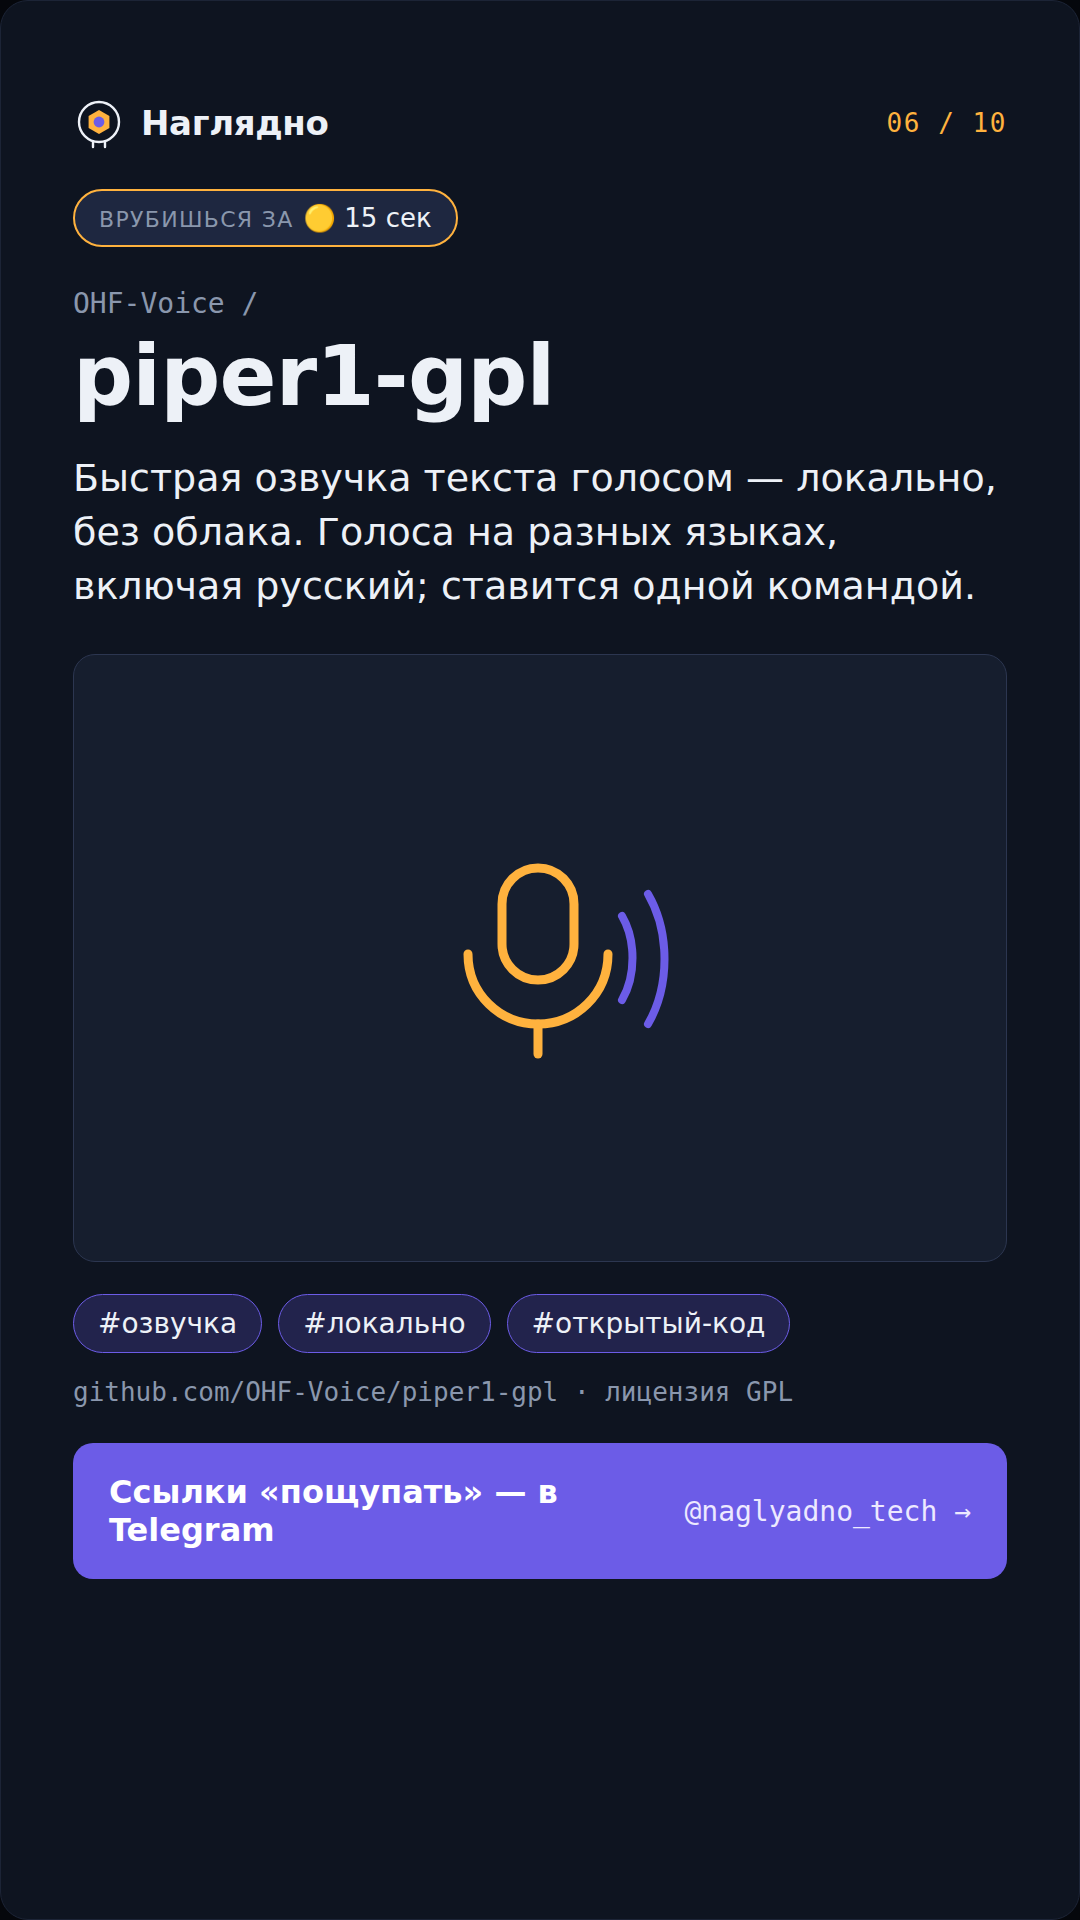
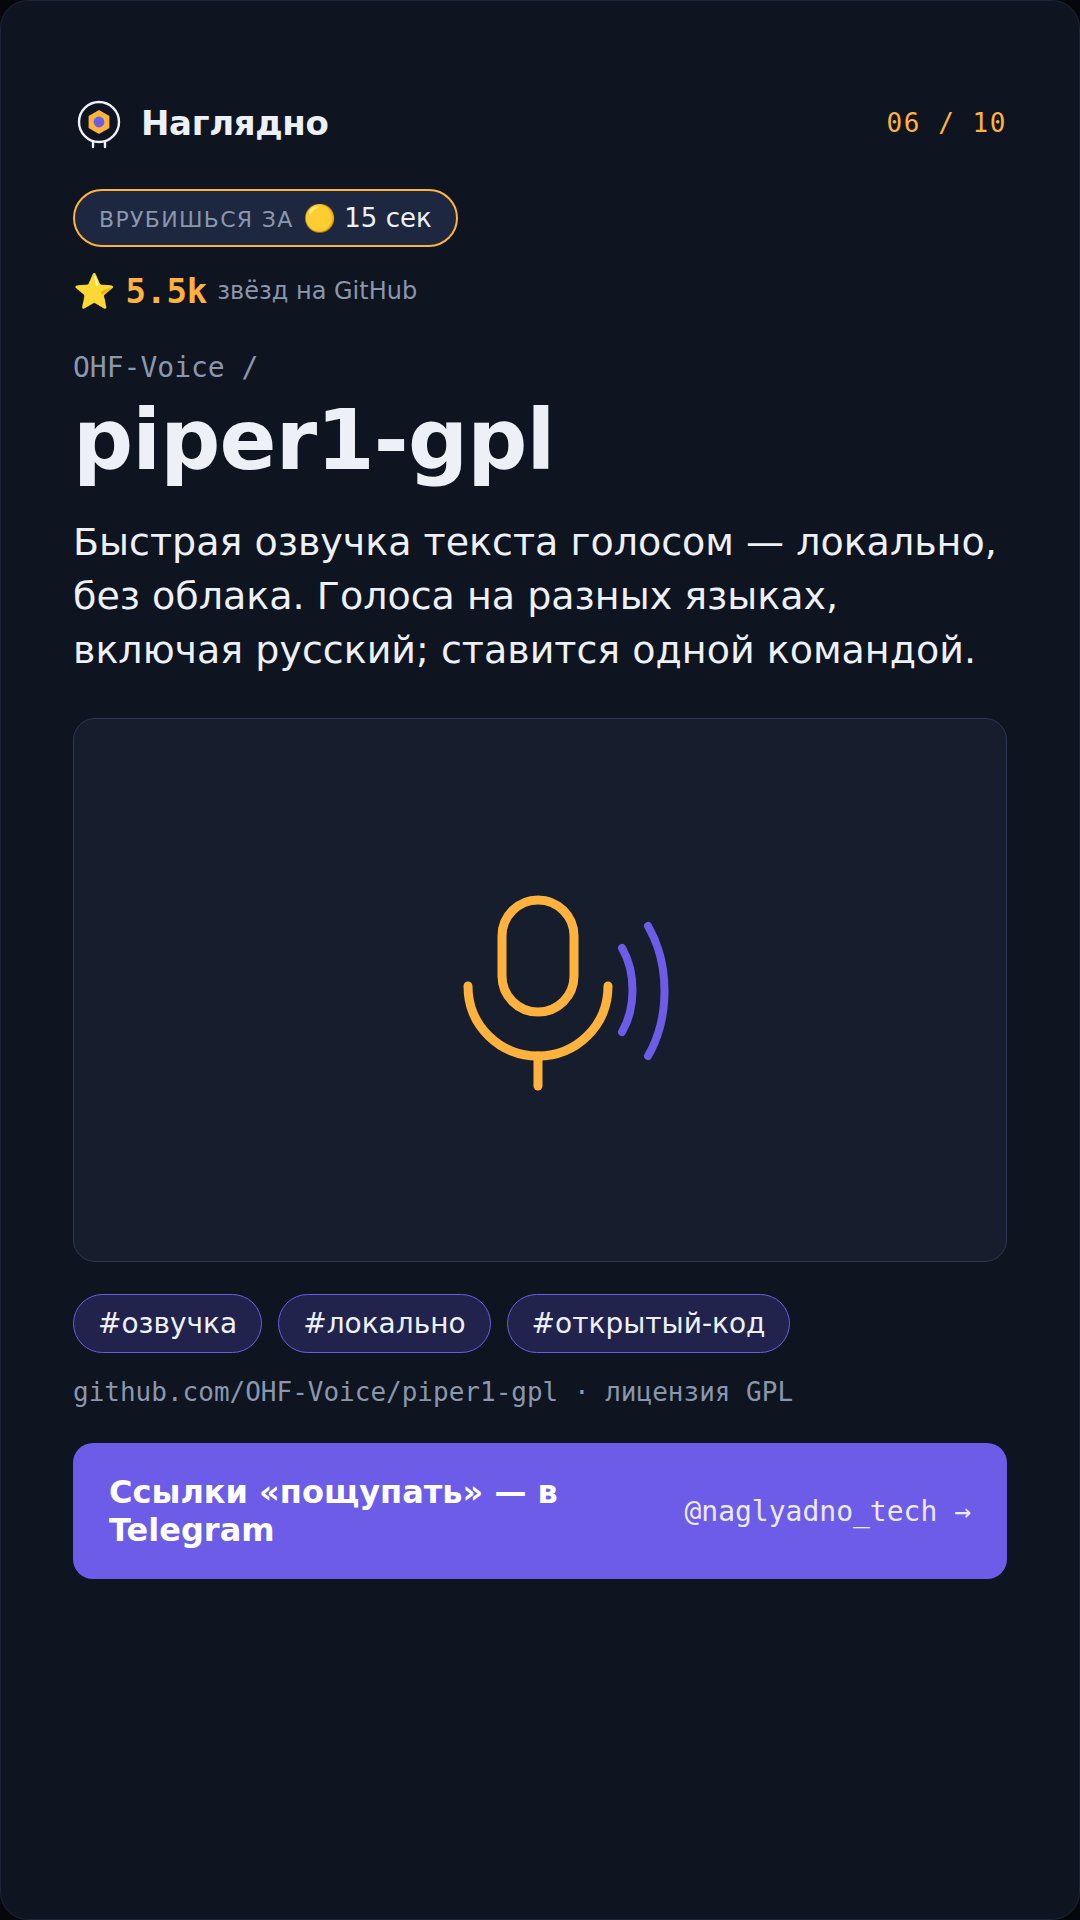
Вернуть счётчик звёзд — реальные цифры, без привязки к неделе
Проверил, что star-badge shields.io доступен из этой среды и сам
обращается к GitHub API на своей стороне — раньше это выглядело
невозможным только из-за блокировки api.github.com конкретно этим
прокси, не из-за отсутствия интернета вообще.

Возвращён блок ⭐ с суммарным числом звёзд на каждой карточке обоих
выпусков — подтверждено shields.io на момент рендера. Недельный
прирост не возвращён: такой метрики у нас по-прежнему нет, и её
источник остаётся неподтверждаемым.

Заодно убрана привязка к «неделе» из заголовков и подписей, где
она была декоративной и ничем не подкреплялась: обложка «Взлетели
на GitHub» и title-теги обоих файлов, brand/profile-setup.md,
brand/brand-guide.md — «Сборка недели» → «Сборка».

Claude-Session: https://claude.ai/code/session_01DzVTpoES8dbpXif4hazhAx

Changed region(s): [[0.0611, 0.125, 0.9167, 0.3438], [0.4278, 0.4375, 0.6417, 0.5625]]

diff --git a/cards/trending-repos.html b/cards/trending-repos.html
@@ -3,7 +3,7 @@
 <head>
 <meta charset="utf-8">
 <meta name="viewport" content="width=device-width, initial-scale=1">
-<title>Наглядно — репозитории недели</title>
+<title>Наглядно — репозитории на подъёме</title>
 <link rel="preconnect" href="https://fonts.googleapis.com">
 <link rel="preconnect" href="https://fonts.gstatic.com" crossorigin>
 <link href="https://fonts.googleapis.com/css2?family=Unbounded:wght@600;700&family=Onest:wght@400;500;600;700&family=JetBrains+Mono:wght@400;500;700&display=swap" rel="stylesheet">
@@ -37,6 +37,11 @@ body{background:#05070c;font-family:var(--font-text);padding:40px;
 .chip{margin-top:40px;align-self:flex-start;background:var(--surface-2);
   border:2px solid var(--accent);border-radius:999px;padding:12px 24px;font-size:26px}
 .chip small{color:var(--text-muted);text-transform:uppercase;letter-spacing:.06em;margin-right:10px;font-size:22px}
+
+.stars{margin-top:24px;display:inline-flex;align-items:center;gap:10px;
+  font-family:var(--font-mono);font-size:34px;font-weight:700;color:var(--accent)}
+.stars .n{color:var(--accent)}
+.stars small{font-family:var(--font-text);font-weight:400;font-size:24px;color:var(--text-muted)}
 
 
 .owner{margin-top:40px;font-family:var(--font-mono);font-size:28px;color:var(--text-muted)}
@@ -114,6 +119,7 @@ const MASCOT = `<svg class="eye" viewBox="0 0 52 52" fill="none">
 const CARDS = [
   {
     owner: 'bilawalsidhu', repo: 'gods-eye-view',
+    stars: '21k',
     clarity: ['🟢', '3 сек'],
     desc: 'Симулятор шпионского спутника в браузере — но данные настоящие. Живые самолёты, корабли, землетрясения и городские камеры на 3D-глобусе.',
     shot: 'shots/gods-eye-view.png',
@@ -122,6 +128,7 @@ const CARDS = [
   },
   {
     owner: 'webadderallorg', repo: 'Recordly',
+    stars: '26k',
     clarity: ['🟢', '3 сек'],
     desc: 'Бесплатная запись экрана с автоматическим приближением, плавным курсором и врезкой с камеры. Ставится на Windows, macOS и Linux; авторы честно предупреждают, что проект молодой.',
     shot: 'shots/recordly.png',
@@ -130,6 +137,7 @@ const CARDS = [
   },
   {
     owner: 'heygen-com', repo: 'hyperframes',
+    stars: '48k',
     clarity: ['🟡', '15 сек'],
     desc: 'Пишешь обычную веб-страницу — на выходе готовый видеофайл. Монтажная программа не нужна: анимацию собирает <i>агент (ИИ, который сам выполняет действия)</i>.',
     icon: 'video',
@@ -138,6 +146,7 @@ const CARDS = [
   },
   {
     owner: 'tt-a1i', repo: 'archify',
+    stars: '56k',
     clarity: ['🟡', '15 сек'],
     desc: 'Описываешь систему словами — получаешь готовую схему: архитектура, потоки данных, порядок шагов. Работает как навык внутри Claude Code, Cursor или Codex — сам по себе не запустится, нужен один из этих ИИ-агентов.',
     shot: 'shots/archify.png',
@@ -146,6 +155,7 @@ const CARDS = [
   },
   {
     owner: 'microsoft', repo: 'markitdown',
+    stars: '182k',
     clarity: ['🟡', '15 сек'],
     desc: 'Утилита Microsoft, которая превращает любой файл — документ, таблицу, презентацию, PDF, картинку — в чистый текст, понятный нейросети. Вёрстка и заголовки не теряются.',
     icon: 'doc',
@@ -154,6 +164,7 @@ const CARDS = [
   },
   {
     owner: 'blader', repo: 'humanizer',
+    stars: '46k',
     clarity: ['🟢', '3 сек'],
     desc: 'Убирает из текста следы «написано нейросетью» — канцелярит, штампы, лишние обороты. Тоже навык для Claude Code / Codex / Cursor, а не отдельная программа или сайт.',
     icon: 'pen',
@@ -162,6 +173,7 @@ const CARDS = [
   },
   {
     owner: 'every-app', repo: 'open-seo',
+    stars: '18k',
     clarity: ['🟡', '15 сек'],
     desc: 'Открытая альтернатива Semrush и Ahrefs: трафик, запросы, позиции конкурентов. Без абонплаты — но не совсем бесплатно: нужен платный API-ключ DataForSEO, платишь по факту запросов, а не 20 000 ₽/мес подписки.',
     shot: 'shots/open-seo.png',
@@ -170,6 +182,7 @@ const CARDS = [
   },
   {
     owner: 'google-research', repo: 'timesfm',
+    stars: '32k',
     clarity: ['🟡', '15 сек'],
     desc: 'Модель Google, которая продолжает числовой ряд в будущее — спрос, трафик, продажи, температуру. Своё обучать не нужно: подставил данные и получил прогноз.',
     shot: 'shots/timesfm.png', light: true,
@@ -178,6 +191,7 @@ const CARDS = [
   },
   {
     owner: 'ChromeDevTools', repo: 'chrome-devtools-mcp',
+    stars: '51k',
     clarity: ['🟠', 'надо вникнуть'],
     desc: 'Официальный инструмент команды Chrome: позволяет ИИ управлять настоящим браузером — открывать сайты, кликать, читать ошибки — как это делает человек.',
     icon: 'browser',
@@ -186,6 +200,7 @@ const CARDS = [
   },
   {
     owner: 'mksglu', repo: 'context-mode',
+    stars: '22k',
     clarity: ['🟠', 'надо вникнуть'],
     desc: 'Разгружает «рабочую память» ИИ-помощника: например, скриншот страницы с 56 КБ ужимается до 300 байт, а суть сессии сохраняется между запусками.',
     icon: 'chip',
@@ -244,9 +259,9 @@ const COVER = `<div class="card cover">
   <div class="hero">
     <span class="big">10</span><span class="unit">проектов,</span>
   </div>
-  <h2>которые взлетели на GitHub за неделю</h2>
+  <h2>которые взлетели на GitHub</h2>
   <p class="sub"><b>Спутник-шпион в браузере</b>, запись экрана, предсказатель будущего —
-     и ещё семь находок, которые за неделю собрали больше всего звёзд.</p>
+     и ещё семь находок, которые набрали больше всего звёзд.</p>
   <div class="grid">
     <div><img src="shots/gods-eye-view.png" alt=""></div>
     <div><img src="shots/archify.png" alt=""></div>
@@ -272,6 +287,7 @@ document.body.insertAdjacentHTML('beforeend', CARDS.map((c, i) => {
       <span class="num">${String(i + 1).padStart(2, '0')} / ${String(CARDS.length).padStart(2, '0')}</span>
     </div>
     <div class="chip"><small>врубишься за</small>${c.clarity[0]} ${c.clarity[1]}</div>
+    ${c.stars ? `<div class="stars">⭐ <span class="n">${c.stars}</span><small>звёзд на GitHub</small></div>` : ''}
     <div class="owner">${c.owner} /</div>
     <h1${c.repo.length > 15 ? ' class="long"' : ''}>${c.repo}</h1>
     <p class="desc">${c.desc}</p>

diff --git a/cards/local-ai.html b/cards/local-ai.html
@@ -38,6 +38,11 @@ body{background:#05070c;font-family:var(--font-text);padding:40px;
   border:2px solid var(--accent);border-radius:999px;padding:12px 24px;font-size:26px}
 .chip small{color:var(--text-muted);text-transform:uppercase;letter-spacing:.06em;margin-right:10px;font-size:22px}
 
+.stars{margin-top:24px;display:inline-flex;align-items:center;gap:10px;
+  font-family:var(--font-mono);font-size:34px;font-weight:700;color:var(--accent)}
+.stars .n{color:var(--accent)}
+.stars small{font-family:var(--font-text);font-weight:400;font-size:24px;color:var(--text-muted)}
+
 
 .owner{margin-top:40px;font-family:var(--font-mono);font-size:28px;color:var(--text-muted)}
 h1{font-family:var(--font-display);font-weight:700;font-size:84px;line-height:1.05;letter-spacing:-.01em;margin-top:12px}
@@ -114,6 +119,7 @@ const MASCOT = `<svg class="eye" viewBox="0 0 52 52" fill="none">
 const CARDS = [
   {
     owner: 'reorproject', repo: 'reor',
+    stars: '8.6k',
     clarity: ['🟡', '15 сек'],
     desc: 'Заметки, которые сами связывают себя по смыслу — без тегов и папок. Спрашиваешь у своих же записей, как у чат-бота, а всё остаётся на диске.',
     icon: 'notes',
@@ -122,6 +128,7 @@ const CARDS = [
   },
   {
     owner: 'docling-project', repo: 'docling',
+    stars: '66k',
     clarity: ['🟡', '15 сек'],
     desc: 'Скармливаешь PDF, PPTX или скан — получаешь чистый структурированный текст с таблицами и картинками на местах. Библиотека для тех, кто готовит документы под нейросеть.',
     shot: 'shots-ai/docling.png', light: true,
@@ -130,6 +137,7 @@ const CARDS = [
   },
   {
     owner: 'VikParuchuri', repo: 'surya',
+    stars: '21k',
     clarity: ['🟠', 'надо вникнуть'],
     desc: 'Распознаёт текст на фото и сканах в любой раскладке страницы и почти любом языке — включая рукописный. Точнее многих платных OCR-сервисов, и работает у тебя локально.',
     shot: 'shots-ai/surya.png', light: true,
@@ -139,6 +147,7 @@ const CARDS = [
   },
   {
     owner: 'karakeep-app', repo: 'karakeep',
+    stars: '29k',
     clarity: ['🟢', '3 сек'],
     desc: 'Сохраняешь ссылку, скриншот или заметку — нейросеть сама расставляет теги и делает архивную копию страницы, чтобы ссылка не умерла. Своя память вместо платного Pocket.',
     shot: 'shots-ai/karakeep.png',
@@ -147,6 +156,7 @@ const CARDS = [
   },
   {
     owner: 'suno-ai', repo: 'bark',
+    stars: '39k',
     clarity: ['🟢', '3 сек'],
     desc: 'Генерирует речь с интонацией, вздохами и паузами — не механический голос, а что-то похожее на живую озвучку. Может и смех вставить, если попросишь текстом.',
     icon: 'speaker',
@@ -155,6 +165,7 @@ const CARDS = [
   },
   {
     owner: 'OHF-Voice', repo: 'piper1-gpl',
+    stars: '5.5k',
     clarity: ['🟡', '15 сек'],
     desc: 'Быстрая озвучка текста голосом — локально, без облака. Голоса на разных языках, включая русский; ставится одной командой.',
     icon: 'voice',
@@ -163,6 +174,7 @@ const CARDS = [
   },
   {
     owner: 'khoj-ai', repo: 'khoj',
+    stars: '37k',
     clarity: ['🟡', '15 сек'],
     desc: 'Свой ИИ-помощник, который читает твои заметки, PDF и почту и отвечает по ним — как личный секретарь, который помнит всё, что ты когда-либо записал.',
     shot: 'shots-ai/khoj.png',
@@ -171,6 +183,7 @@ const CARDS = [
   },
   {
     owner: 'All-Hands-AI', repo: 'OpenHands',
+    stars: '87k',
     clarity: ['🟠', 'надо вникнуть'],
     desc: 'Пульт для <i>ИИ-агентов (программ, которые сами выполняют задачи)</i>: ставишь задачу, агент сам правит код и запускает проверки. Поднимается на своём сервере.',
     shot: 'shots-ai/openhands.png',
@@ -179,6 +192,7 @@ const CARDS = [
   },
   {
     owner: 'ItzCrazyKns', repo: 'Vane',
+    stars: '37k',
     clarity: ['🟢', '3 сек'],
     desc: 'Поиск, который сам читает сайты и отвечает по сути, со ссылками на источники. Открытая замена платным ИИ-поисковикам; раньше проект назывался Perplexica.',
     shot: 'shots-ai/vane.png',
@@ -187,6 +201,7 @@ const CARDS = [
   },
   {
     owner: 'Mintplex-Labs', repo: 'anything-llm',
+    stars: '66k',
     clarity: ['🟡', '15 сек'],
     desc: 'Загружаешь свои документы — договоры, конспекты, переписку — и спрашиваешь по ним обычными словами. Работает с локальной моделью, файлы остаются у тебя.',
     shot: 'shots-ai/anything-llm.png',
@@ -345,6 +360,7 @@ document.body.insertAdjacentHTML('beforeend', CARDS.map((c, i) => {
       <span class="num">${String(i + 1).padStart(2, '0')} / ${String(CARDS.length).padStart(2, '0')}</span>
     </div>
     <div class="chip"><small>врубишься за</small>${c.clarity[0]} ${c.clarity[1]}</div>
+    ${c.stars ? `<div class="stars">⭐ <span class="n">${c.stars}</span><small>звёзд на GitHub</small></div>` : ''}
     <div class="owner">${c.owner} /</div>
     <h1${c.repo.length > 15 ? ' class="long"' : ''}>${c.repo}</h1>
     <p class="desc">${c.desc}</p>
